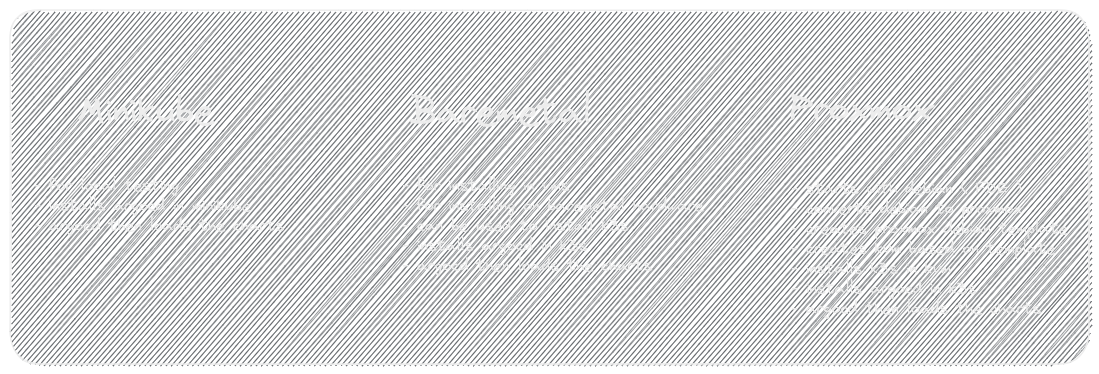
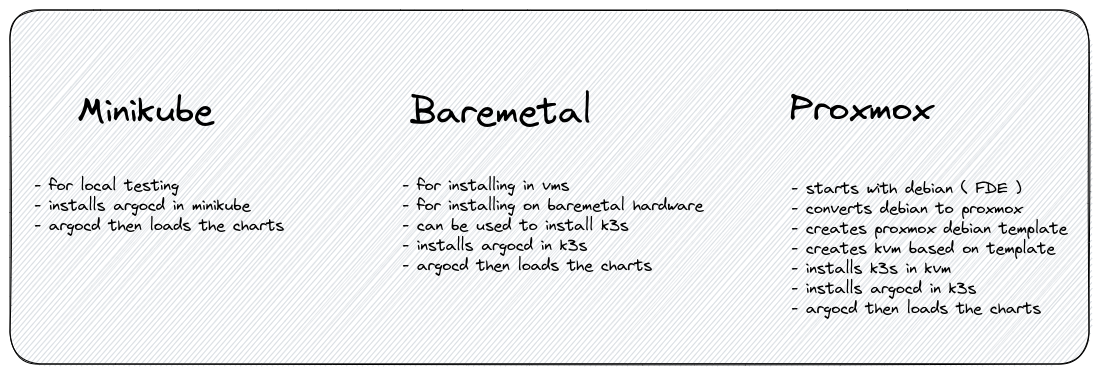
updated docs

diff --git a/docs/Excalidraw/three-choices.md b/docs/Excalidraw/three-choices.md
@@ -178,8 +178,8 @@ Minikube ^E6HB5i2B
 		},
 		{
 			"type": "text",
-			"version": 99,
-			"versionNonce": 2124894625,
+			"version": 101,
+			"versionNonce": 713118888,
 			"isDeleted": false,
 			"id": "6wgqIgoU",
 			"fillStyle": "hachure",
@@ -198,7 +198,7 @@ Minikube ^E6HB5i2B
 			"groupIds": [],
 			"roundness": null,
 			"boundElements": [],
-			"updated": 1682544699039,
+			"updated": 1682546753114,
 			"link": null,
 			"locked": false,
 			"fontSize": 16,
